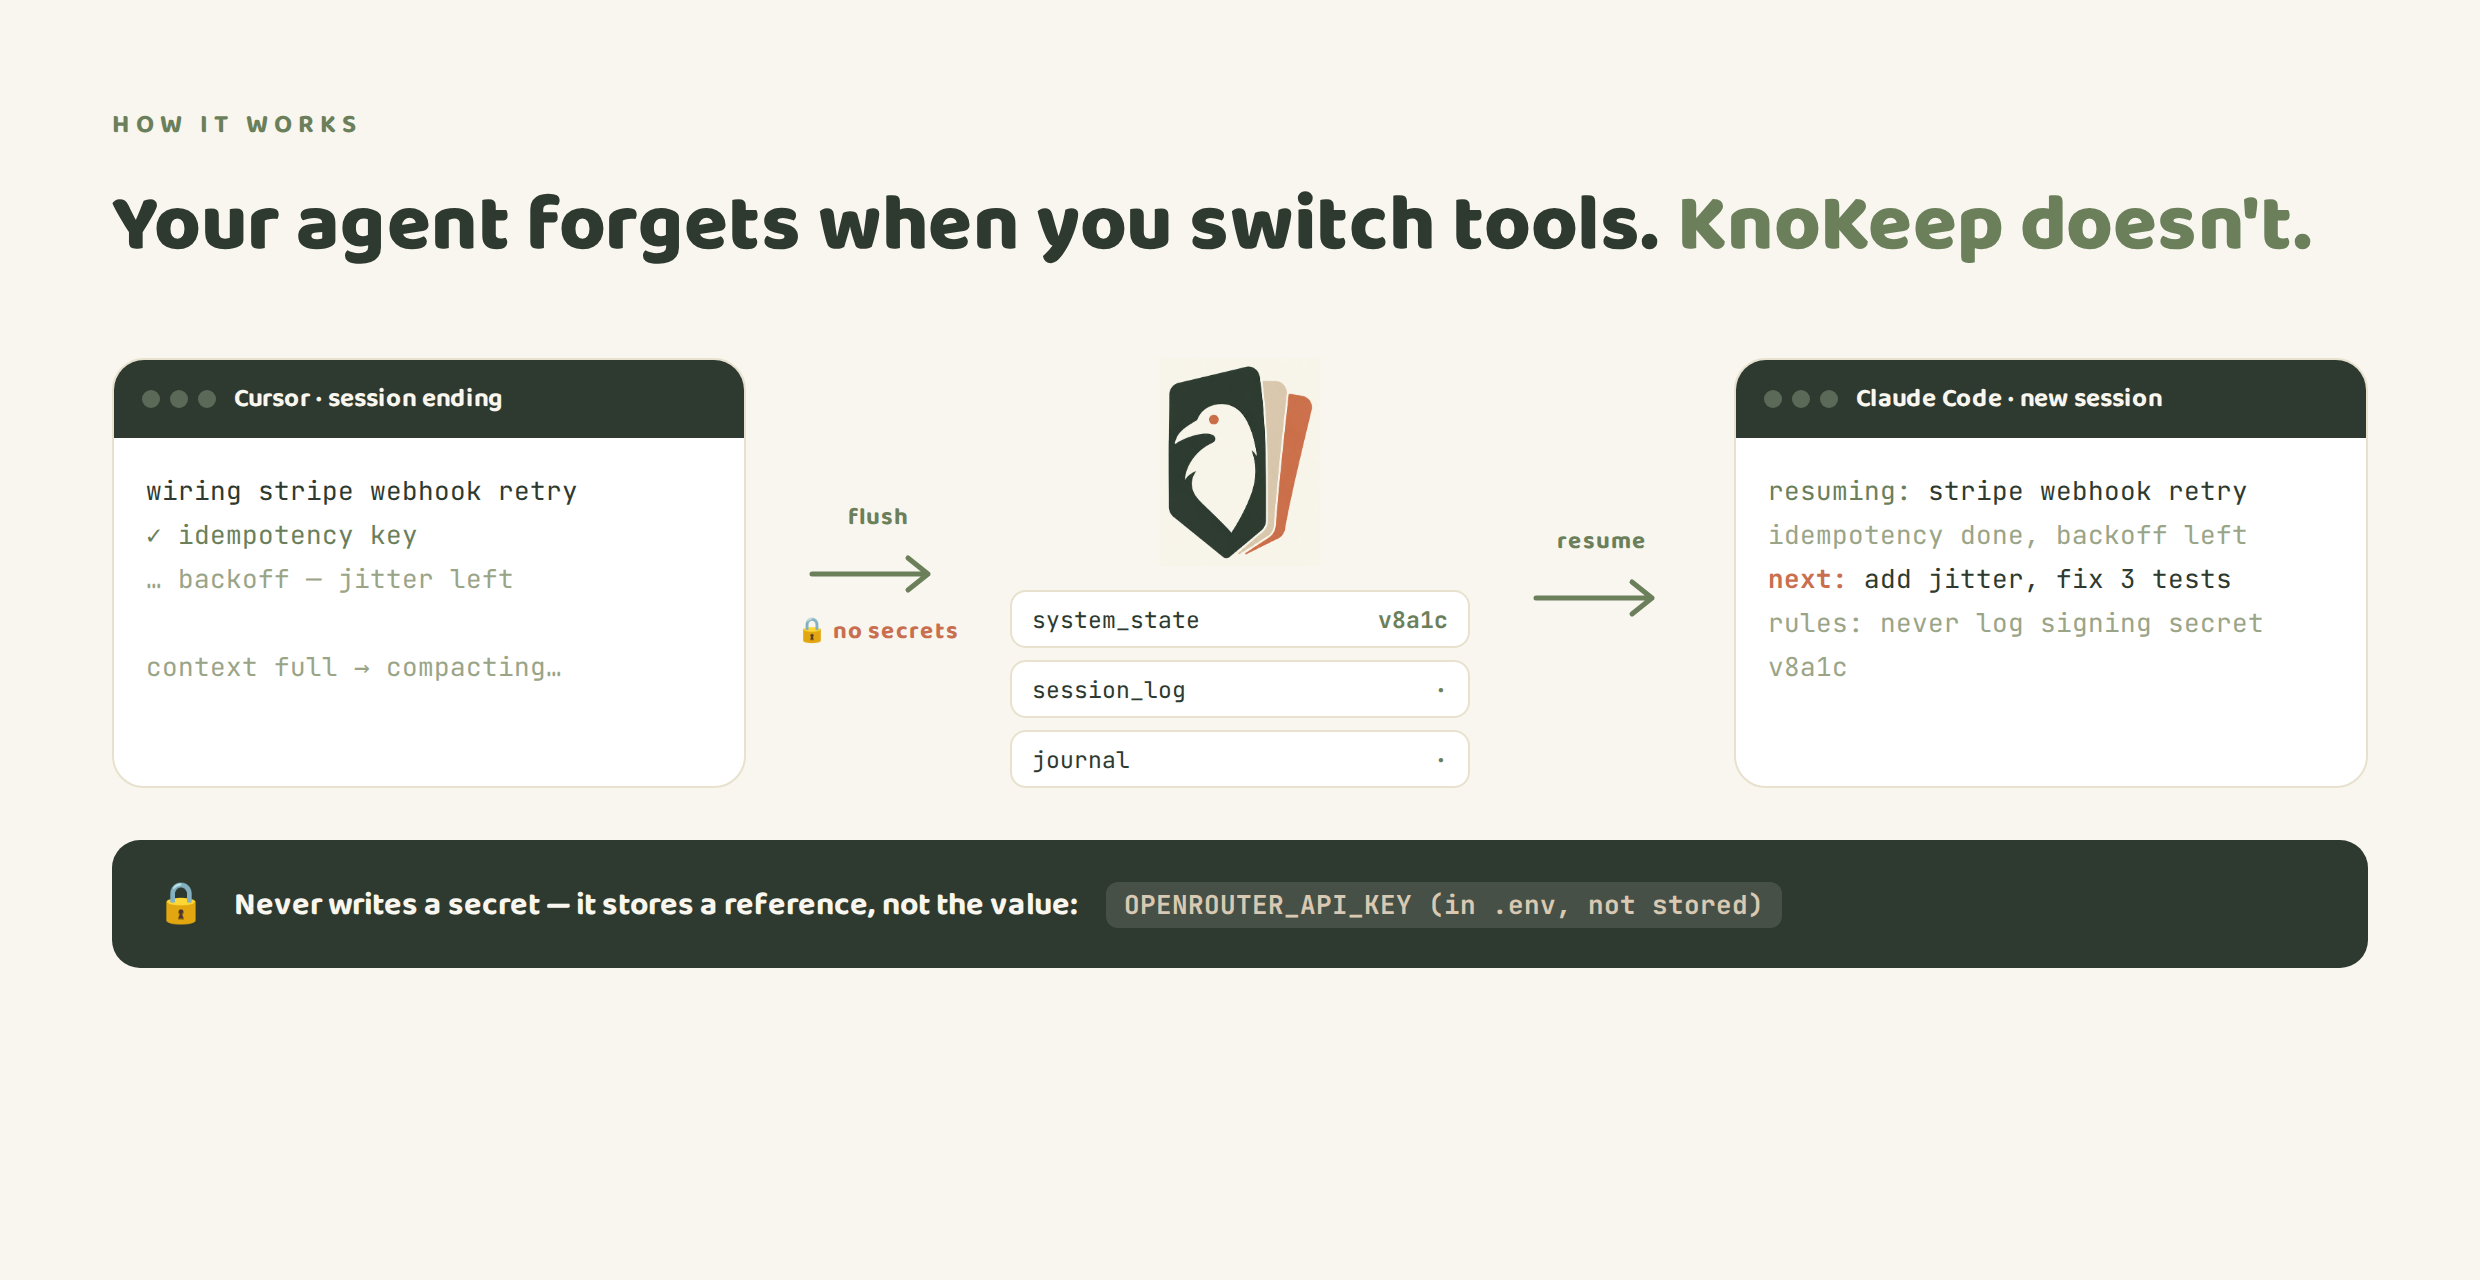
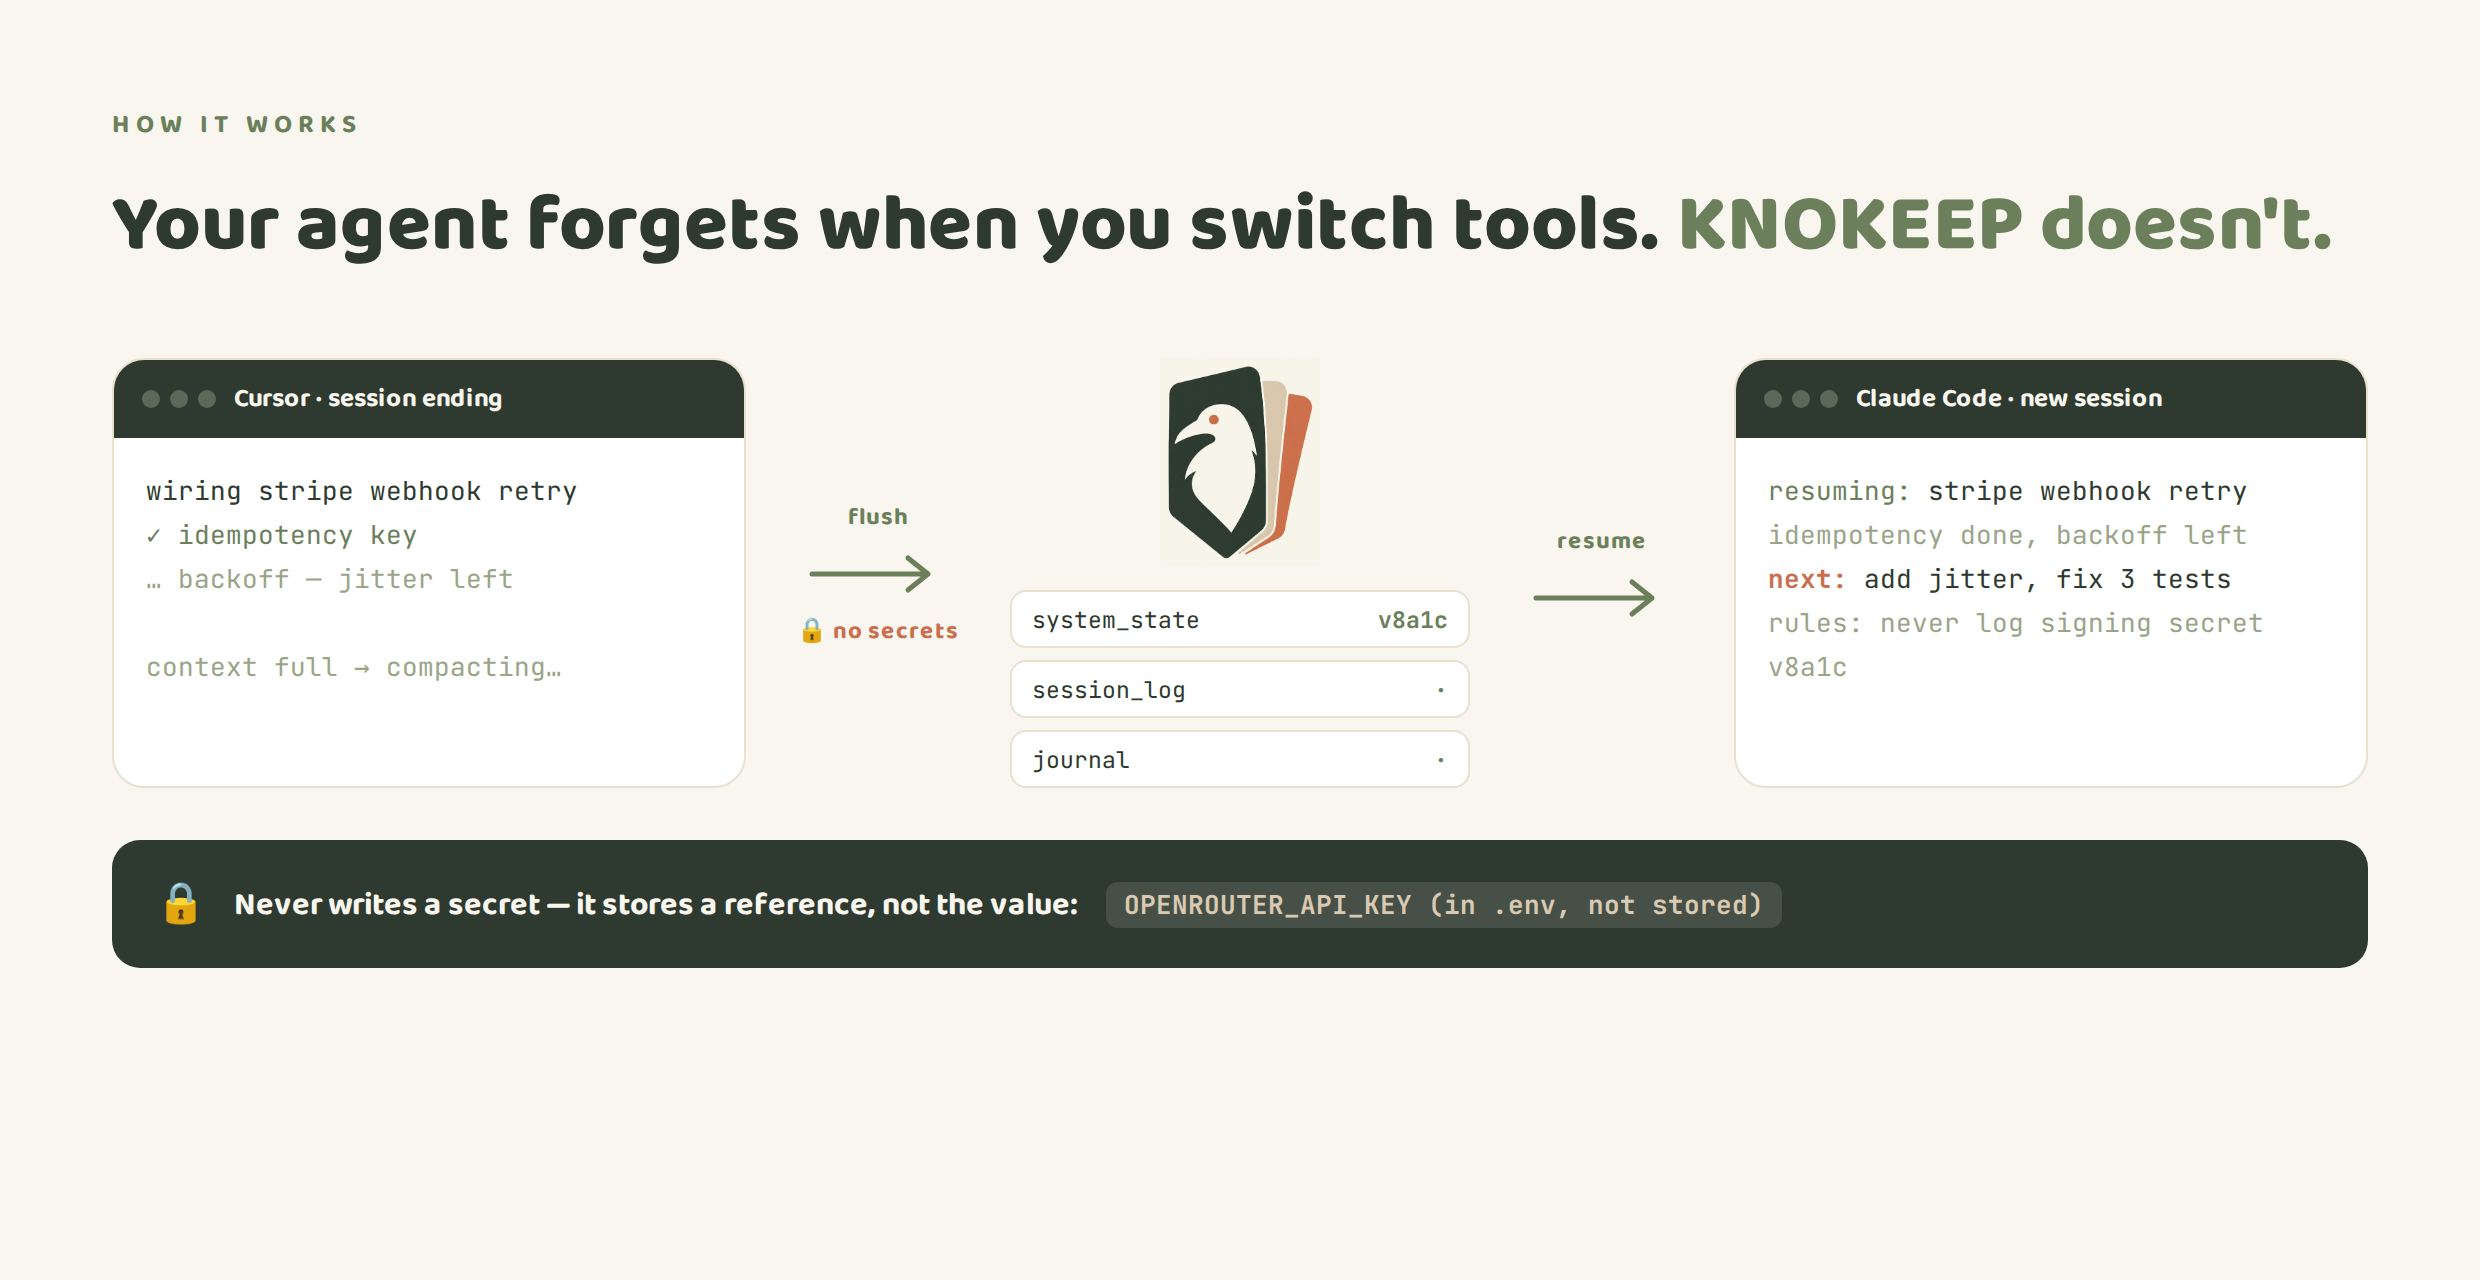
fix(ci): skip case-sensitive-volume test on case-insensitive hosts; brand consistency
test_case_sensitive_volume_allows_distinct_case_keys asserted the host volume
is case-sensitive and only skipped on Windows, so it failed on the new macOS
runner (APFS is case-insensitive by default). Skip it when LocalBackend detects
a case-insensitive volume — the product behavior is correct and covered by the
case-collision tests; this was only a test-environment assumption. Also fix the
README story hero headline to use the KNOKEEP wordmark for consistency.

Claude-Session: https://claude.ai/code/session_0168yWX1Cn5XH6MK7LbkvxTf

Changed region(s): [[0.6831, 0.1562, 0.9315, 0.2188]]

diff --git a/tests/test_local_backend.py b/tests/test_local_backend.py
@@ -390,6 +390,9 @@ def test_case_sensitive_volume_allows_distinct_case_keys(tmp_path):
     default-on-this-host) case-sensitive flag, two keys differing only by
     case are simply two distinct keys."""
     backend = LocalBackend(tmp_path / "store-root")
+    if backend._case_insensitive:
+        backend.close()
+        pytest.skip("host temp volume is case-insensitive (e.g. macOS APFS); this test needs a case-sensitive volume")
     assert backend._case_insensitive is False
 
     r0 = gate.persist(backend, "Notes/Foo", b"v1", expected_hash=None, doc_type="system_state")
